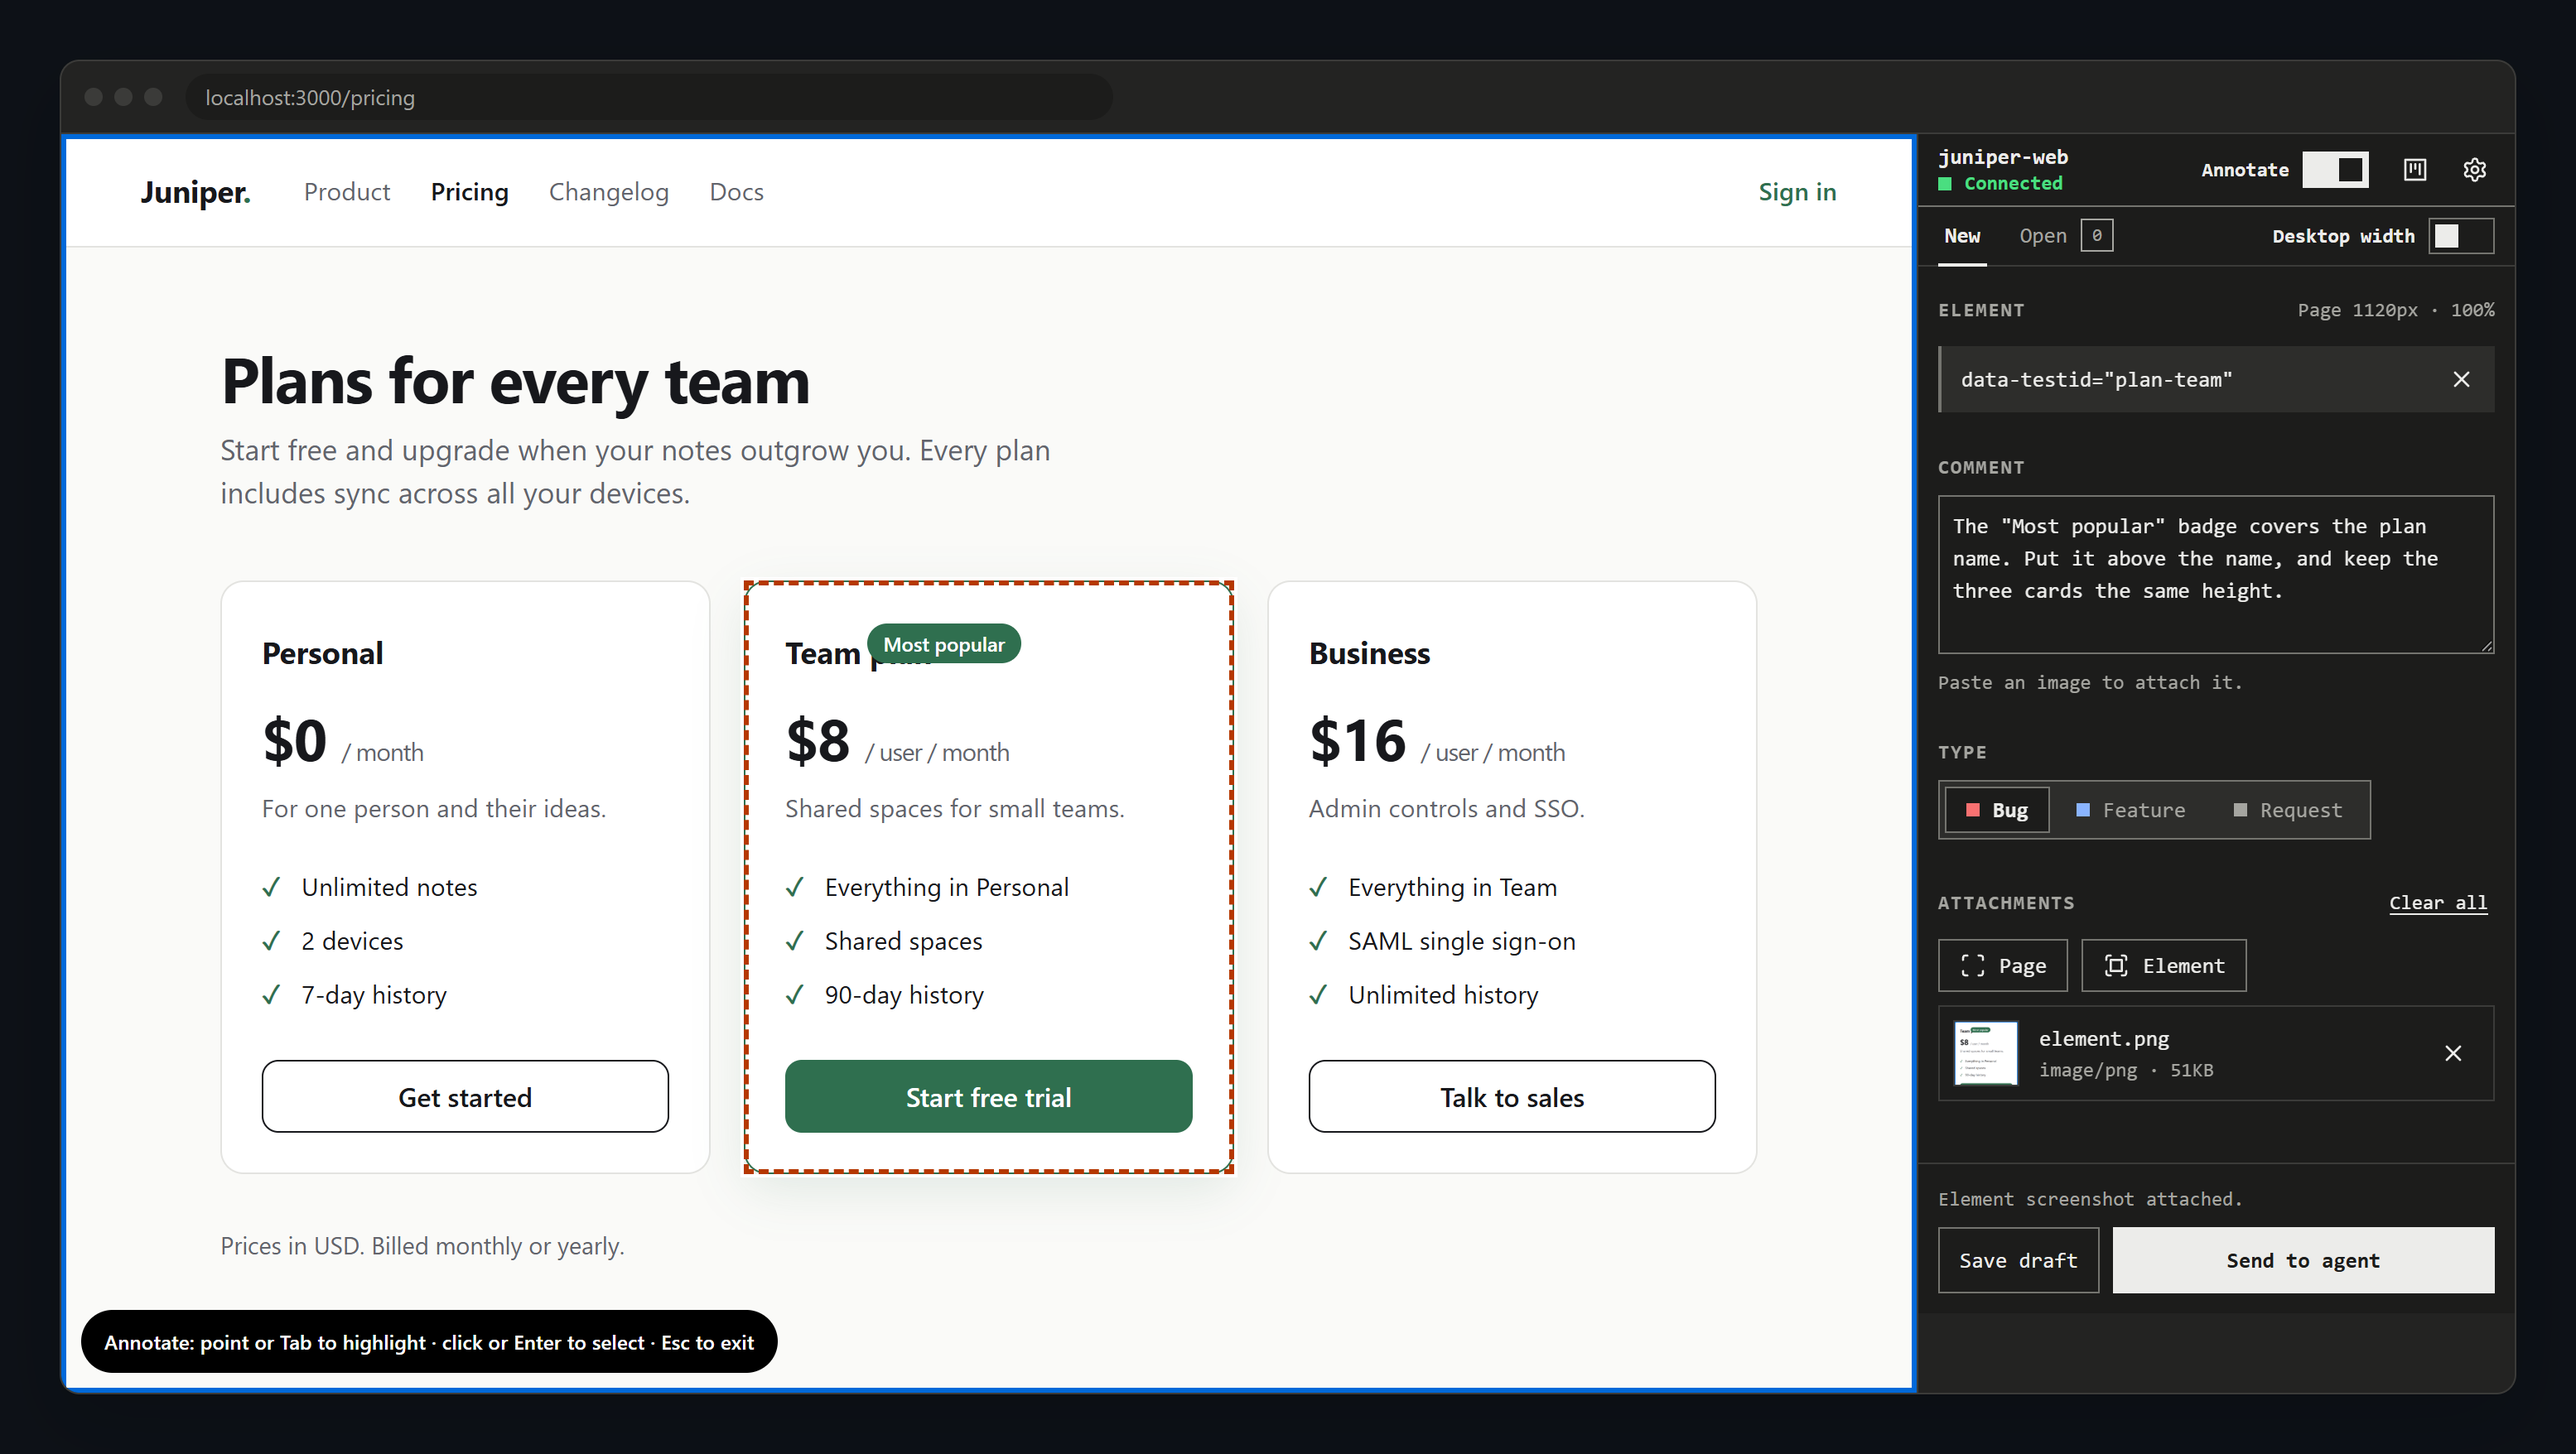
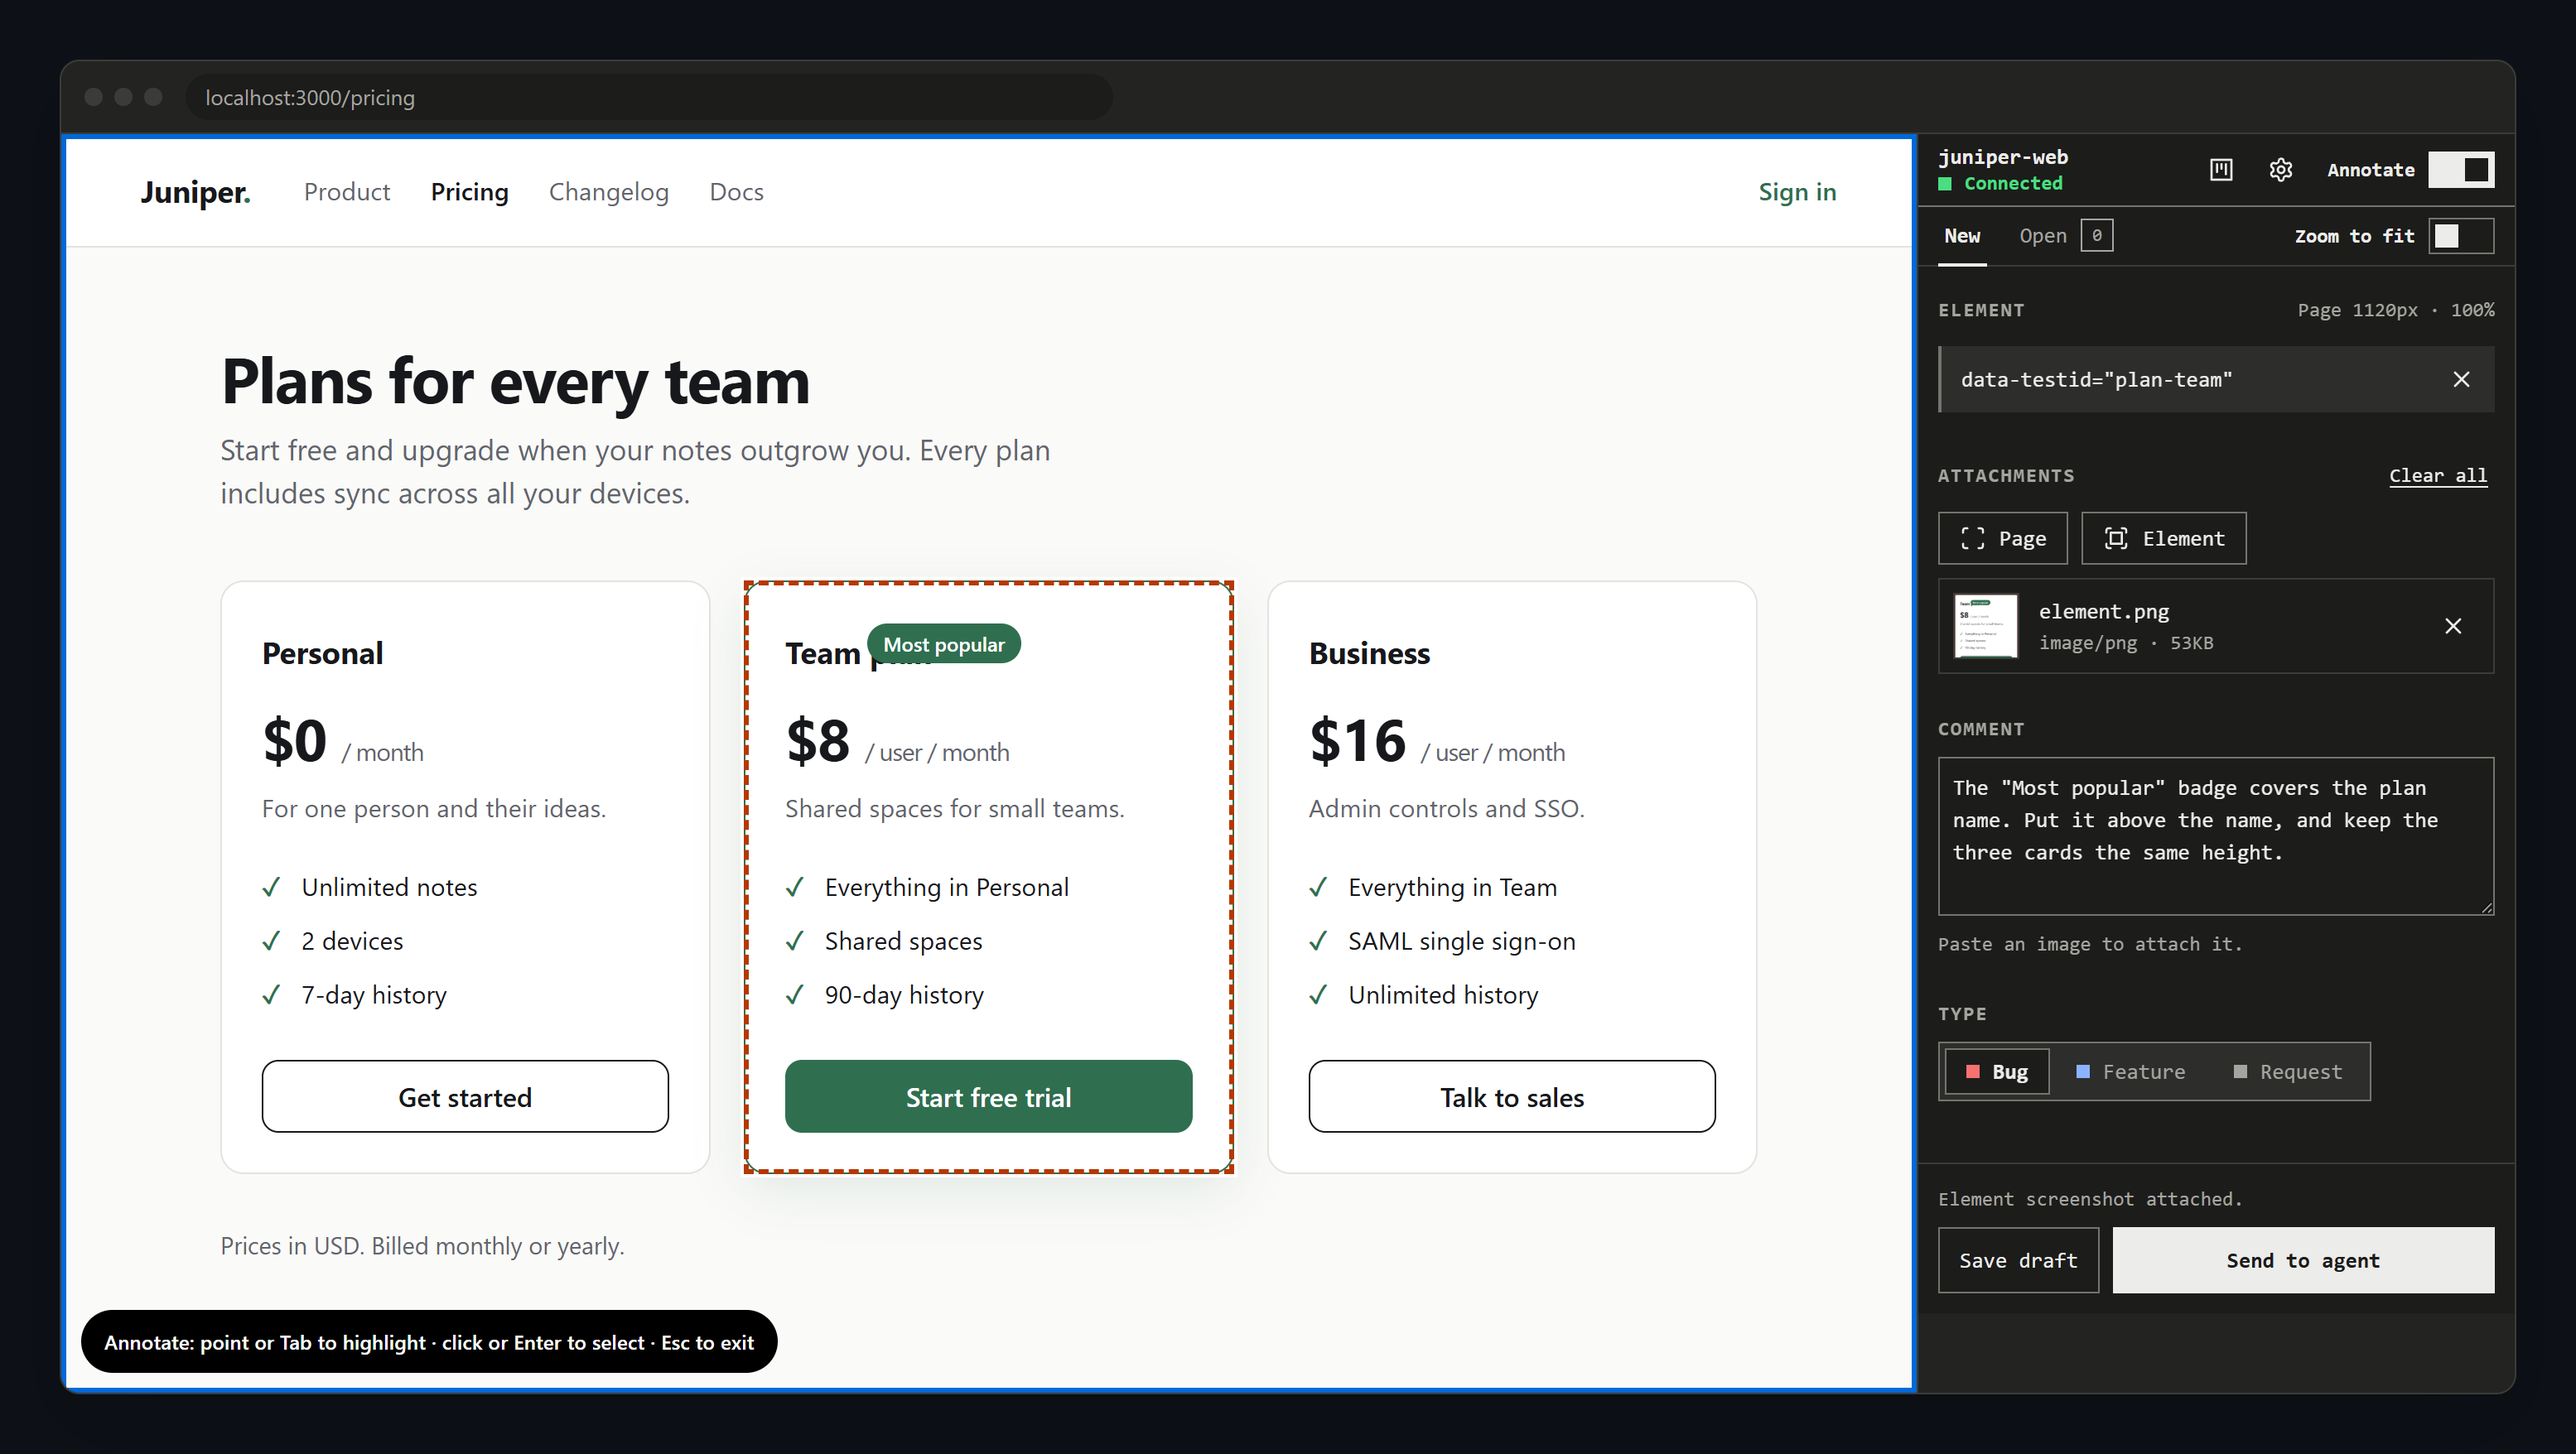
Extension: follow the annotating order in the panel, rename Desktop width
The New tab now goes Element, Attachments, Comment, Type: pick an
element, capture it, describe the change, then classify it. The Annotate
switch moves to the right edge of the header so it lines up with the
switch below it. "Desktop width" is now "Zoom to fit", which says what it
does. README text and the panel screenshots follow.

diff --git a/chrome-extension/sidepanel.html b/chrome-extension/sidepanel.html
@@ -19,13 +19,6 @@
         <span id="connStatusLabel" class="conn-status is-err" role="status" aria-live="polite" title="Receiver connection">Offline</span>
       </div>
       <div class="header-actions">
-        <label class="mode-switch" title="Annotate mode (Ctrl+Shift+Y)">
-          <span class="mode-label">Annotate</span>
-          <span class="switch">
-            <input type="checkbox" id="annotateToggle" role="switch">
-            <span class="track" aria-hidden="true"><span class="thumb"></span></span>
-          </span>
-        </label>
         <button id="openBoardHeader" class="icon-btn ghost" type="button" title="Open the board" aria-label="Open the board">
           <svg class="icon" xmlns="http://www.w3.org/2000/svg" viewBox="0 0 24 24" fill="none" stroke="currentColor" stroke-width="2" stroke-linecap="round" stroke-linejoin="round" aria-hidden="true"><rect width="18" height="18" x="3" y="3"/><path d="M8 7v7"/><path d="M12 7v4"/><path d="M16 7v9"/></svg>
         </button>
@@ -35,6 +28,13 @@
             <circle cx="12" cy="12" r="3"/>
           </svg>
         </button>
+        <label class="mode-switch" title="Annotate mode (Ctrl+Shift+Y)">
+          <span class="mode-label">Annotate</span>
+          <span class="switch">
+            <input type="checkbox" id="annotateToggle" role="switch">
+            <span class="track" aria-hidden="true"><span class="thumb"></span></span>
+          </span>
+        </label>
       </div>
     </header>
 
@@ -45,8 +45,8 @@
           Open <span id="openCount" class="count" hidden></span>
         </button>
       </nav>
-      <label class="mode-switch" title="Zoom the page out so it keeps its full width while this panel is open">
-        <span class="mode-label">Desktop width</span>
+      <label class="mode-switch" title="Zoom the page out so its full width fits beside this panel">
+        <span class="mode-label">Zoom to fit</span>
         <span class="switch">
           <input type="checkbox" id="desktopWidthToggle" role="switch">
           <span class="track" aria-hidden="true"><span class="thumb"></span></span>
@@ -73,6 +73,28 @@
         </section>
 
         <section class="section">
+          <div class="section-head">
+            <h2 class="section-title">Attachments</h2>
+            <button id="clearAttachments" class="text-btn" type="button" hidden>Clear all</button>
+          </div>
+          <div class="capture-row">
+            <button id="attachScreenshot" class="btn" type="button" title="Capture the visible page">
+              <svg class="icon" xmlns="http://www.w3.org/2000/svg" viewBox="0 0 24 24" fill="none" stroke="currentColor" stroke-width="2" stroke-linecap="round" stroke-linejoin="round" aria-hidden="true">
+                <path d="M3 7V5a2 2 0 0 1 2-2h2"/><path d="M17 3h2a2 2 0 0 1 2 2v2"/><path d="M21 17v2a2 2 0 0 1-2 2h-2"/><path d="M7 21H5a2 2 0 0 1-2-2v-2"/>
+              </svg>
+              <span class="btn-text">Page</span>
+            </button>
+            <button id="attachElementShot" class="btn" type="button" title="Capture the selected element">
+              <svg class="icon" xmlns="http://www.w3.org/2000/svg" viewBox="0 0 24 24" fill="none" stroke="currentColor" stroke-width="2" stroke-linecap="round" stroke-linejoin="round" aria-hidden="true">
+                <rect x="7" y="7" width="10" height="10"/><path d="M3 7V5a2 2 0 0 1 2-2h2"/><path d="M17 3h2a2 2 0 0 1 2 2v2"/><path d="M21 17v2a2 2 0 0 1-2 2h-2"/><path d="M7 21H5a2 2 0 0 1-2-2v-2"/>
+              </svg>
+              <span class="btn-text">Element</span>
+            </button>
+          </div>
+          <div id="attachments" class="attachments"></div>
+        </section>
+
+        <section class="section">
           <h2 class="section-title"><label for="comment">Comment</label></h2>
           <textarea id="comment" name="comment" class="field-input comment" rows="4" placeholder="What should change?" aria-describedby="commentHint"></textarea>
           <p id="commentHint" class="help">Paste an image to attach it.</p>
@@ -95,28 +117,6 @@
             </label>
           </div>
         </fieldset>
-
-        <section class="section">
-          <div class="section-head">
-            <h2 class="section-title">Attachments</h2>
-            <button id="clearAttachments" class="text-btn" type="button" hidden>Clear all</button>
-          </div>
-          <div class="capture-row">
-            <button id="attachScreenshot" class="btn" type="button" title="Capture the visible page">
-              <svg class="icon" xmlns="http://www.w3.org/2000/svg" viewBox="0 0 24 24" fill="none" stroke="currentColor" stroke-width="2" stroke-linecap="round" stroke-linejoin="round" aria-hidden="true">
-                <path d="M3 7V5a2 2 0 0 1 2-2h2"/><path d="M17 3h2a2 2 0 0 1 2 2v2"/><path d="M21 17v2a2 2 0 0 1-2 2h-2"/><path d="M7 21H5a2 2 0 0 1-2-2v-2"/>
-              </svg>
-              <span class="btn-text">Page</span>
-            </button>
-            <button id="attachElementShot" class="btn" type="button" title="Capture the selected element">
-              <svg class="icon" xmlns="http://www.w3.org/2000/svg" viewBox="0 0 24 24" fill="none" stroke="currentColor" stroke-width="2" stroke-linecap="round" stroke-linejoin="round" aria-hidden="true">
-                <rect x="7" y="7" width="10" height="10"/><path d="M3 7V5a2 2 0 0 1 2-2h2"/><path d="M17 3h2a2 2 0 0 1 2 2v2"/><path d="M21 17v2a2 2 0 0 1-2 2h-2"/><path d="M7 21H5a2 2 0 0 1-2-2v-2"/>
-              </svg>
-              <span class="btn-text">Element</span>
-            </button>
-          </div>
-          <div id="attachments" class="attachments"></div>
-        </section>
       </div>
 
       <div id="panelOpen" class="tab-panel list-panel" role="tabpanel" aria-labelledby="tabOpen" hidden>

diff --git a/chrome-extension/styles/base.css b/chrome-extension/styles/base.css
@@ -121,7 +121,8 @@ p {
   justify-content: space-between;
   gap: var(--space-3);
   min-block-size: 2.75rem;
-  padding: var(--space-1) var(--space-2) var(--space-1) var(--space-3);
+  /* Same right edge as the tab bar, so the Annotate and Zoom to fit switches line up. */
+  padding: var(--space-1) var(--space-1) var(--space-1) var(--space-3);
   border-block-end: 1px solid var(--rule);
 }
 

diff --git a/chrome-extension/sidepanel/desktop_width.js b/chrome-extension/sidepanel/desktop_width.js
@@ -67,7 +67,7 @@ export async function syncDesktopWidth() {
     await applyForCurrentTab();
   } catch (error) {
     await refreshLayout();
-    announceAction(`Desktop width is unavailable on this page: ${error?.message || error}`, "error");
+    announceAction(`Zoom to fit is unavailable on this page: ${error?.message || error}`, "error");
   }
 }
 

diff --git a/README.md b/README.md
@@ -56,9 +56,9 @@ now shows the repo's name and **Connected**.
 
 **4. Annotate something.**
 Turn on **Annotate** (or press `Ctrl+Shift+Y`, `Command+Shift+Y` on macOS)
-and click an element on the page. Write what should change, pick a type (Bug,
-Feature or Request), and optionally attach a screenshot of the element or the
-page. Click **Send to agent**. **Save draft** keeps it for yourself until it
+and click an element on the page. Optionally attach a screenshot of the
+element or the page, then write what should change and pick a type (Bug,
+Feature or Request). Click **Send to agent**. **Save draft** keeps it for yourself until it
 is ready.
 
 **5. Ask your agent to do the work.**
@@ -214,10 +214,10 @@ browser first and sent to its repo as soon as the receiver answers. The
 extension checks every minute and whenever the panel opens. Annotations that
 are still waiting show in the Open tab with **Retry** and **Discard**.
 
-### Desktop width
+### Zoom to fit
 
 Chrome's side panel makes the page narrower, which can switch a site to its
-tablet layout. Turn on **Desktop width** to zoom the page out so it keeps the
+tablet layout. Turn on **Zoom to fit** to zoom the page out so it keeps the
 width it had without the panel. The zoom is undone when you turn it off or
 close the panel. Every annotation records the viewport width and zoom it was
 made at.
